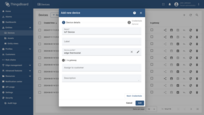
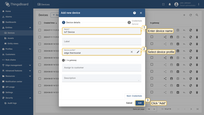
Edge and PE Edge documentation update fix.

diff --git a/_includes/docs/edge/user-guide/alarms.md b/_includes/docs/edge/user-guide/alarms.md
@@ -4,16 +4,15 @@
 
 ## Overview
 
-This manual provides an overview of the alarm notification system functionalities available on the ThingsBoard **Edge** *Platform*. It includes detailed instructions on the fundamental concepts of configuring and utilizing alarms within ThingsBoard **Edge**. Key topics covered are the creation of processing rules, configuration of notifications, and event response mechanisms.
+This manual provides an overview of the alarm notification system functionalities available on the ThingsBoard **Edge**. It includes detailed instructions on the fundamental concepts of configuring and utilizing alarms within ThingsBoard **Edge**. Key topics covered are the creation of processing rules, configuration of notifications, and event response mechanisms.
 
-For more information, please refer to [working with alarms](/docs/pe/user-guide/alarms/#main-concepts) documentation.
+For more information, please refer to the [working with alarms](/docs/pe/user-guide/alarms/#main-concepts) documentation.
 
 ## Prerequisites
 
 - A ThingsBoard **Edge** instance is up and running.
 
 If you have these prerequisites in place, let's go to the next steps.
-
 
 ## Step 1. Create Device
 
@@ -29,21 +28,28 @@ Configuring the device profile allows you to set the device's parameters and beh
 
 ## Step 3. Send Telemetry Message
 
-Replace $THINGSBOARD_HOST_NAME, and $ACCESS_TOKEN with corresponding values.
+In this step, we will send a telemetry message to the device you created earlier, simulating a temperature reading. This message will trigger the alarm based on the alarm rule you configured.
 
+Replace $THINGSBOARD_HOST_NAME, and $ACCESS_TOKEN with corresponding values.
 
 ```bash
 curl -v -X POST http://$THINGSBOARD_HOST_NAME:8080/api/v1/$ACCESS_TOKEN/telemetry --header Content-Type:application/json --data "{temperature:51}"
 ```
 {: .copy-code}
 
-![image](/images/edge/user-guide/alarms/send-telemetry-cli.png)
+This command sends a telemetry message to your ThingsBoard Edge instance with a temperature value of 51, which will trigger the "High Temperature" alarm rule if the threshold condition is met.
+
+![send telemetry cli](/images/edge/user-guide/alarms/send-telemetry-cli.png)
 
 ## Step 4. Confirm Alarm
+
+After sending the telemetry message in the previous step, you need to verify that the alarm has been triggered based on the conditions you configured in the device profile.
 
 {% include images-gallery.html imageCollection="verifyAlarm" showListImageTitles="true" %}
 
 ## Troubleshooting
 
+- The telemetry message was sent correctly (review the response from the curl command).
+- The alarm rule conditions in the device profile match the incoming telemetry data.
 - Ensure that device profiles are correctly associated with devices
 - Verify that alarm conditions match the intended telemetry data.

diff --git a/_includes/docs/pe/edge/user-guide/alarms.md b/_includes/docs/pe/edge/user-guide/alarms.md
@@ -4,7 +4,7 @@
 
 ## Overview
 
-This manual provides an overview of the alarm notification system functionalities available on the ThingsBoard **PE Edge** *Platform*. It includes detailed instructions on the fundamental concepts of configuring and utilizing alarms within ThingsBoard **PE Edge**. Key topics covered are the creation of processing rules, configuration of notifications, and event response mechanisms.
+This manual provides an overview of the alarm notification system functionalities available on the ThingsBoard **PE Edge**. It includes detailed instructions on the fundamental concepts of configuring and utilizing alarms within ThingsBoard **PE Edge**. Key topics covered are the creation of processing rules, configuration of notifications, and event response mechanisms.
 
 For more information, please refer to [working with alarms](/docs/pe/user-guide/alarms/#main-concepts) documentation.
 
@@ -13,7 +13,6 @@ For more information, please refer to [working with alarms](/docs/pe/user-guide/
 - A ThingsBoard **PE Edge** instance is up and running.
 
 If you have these prerequisites in place, let's go to the next steps.
-
 
 ## Step 1. Create Device
 
@@ -29,21 +28,28 @@ Configuring the device profile allows you to set the device's parameters and beh
 
 ## Step 3. Send Telemetry Message
 
-Replace $THINGSBOARD_HOST_NAME, and $ACCESS_TOKEN with corresponding values.
+In this step, we will send a telemetry message to the device you created earlier, simulating a temperature reading. This message will trigger the alarm based on the alarm rule you configured.
 
+Replace $THINGSBOARD_HOST_NAME, and $ACCESS_TOKEN with corresponding values.
 
 ```bash
 curl -v -X POST http://$THINGSBOARD_HOST_NAME:8080/api/v1/$ACCESS_TOKEN/telemetry --header Content-Type:application/json --data "{temperature:51}"
 ```
 {: .copy-code}
 
-![image](/images/pe/edge/user-guide/alarms/send-telemetry-cli.png)
+This command sends a telemetry message to your ThingsBoard PE Edge instance with a temperature value of 51, which will trigger the "High Temperature" alarm rule if the threshold condition is met.
+
+![send telemetry cli](/images/pe/edge/user-guide/alarms/send-telemetry-cli.png)
 
 ## Step 4. Confirm Alarm
+
+After sending the telemetry message in the previous step, you need to verify that the alarm has been triggered based on the conditions you configured in the device profile.
 
 {% include images-gallery.html imageCollection="verifyAlarm" showListImageTitles="true" %}
 
 ## Troubleshooting
 
+- The telemetry message was sent correctly (review the response from the curl command).
+- The alarm rule conditions in the device profile match the incoming telemetry data.
 - Ensure that device profiles are correctly associated with devices
 - Verify that alarm conditions match the intended telemetry data.

diff --git a/docs/edge/user-guide/alarms.md b/docs/edge/user-guide/alarms.md
@@ -8,7 +8,7 @@ description: Alarms
 createDeviceProfile:
     0:
       image: /images/edge/user-guide/alarms/create-device-profile-1.png
-      title: 'Log in to ThingsBoard <b>PE</b> instance. Open <b>"Device profiles"</b> menu page.'
+      title: 'Log in to ThingsBoard <b>Edge</b> instance. Open <b>"Device profiles"</b> menu page.'
       
     1:
       image: /images/edge/user-guide/alarms/create-device-profile-2.png
@@ -48,7 +48,7 @@ createDeviceProfile:
       
     10:
       image: /images/edge/user-guide/alarms/create-device-profile-11.png
-      title: 'Click <b>"Add" button"</b>.'
+      title: 'Click <b>"Add" button</b>.'
     
     11:
       image: /images/edge/user-guide/alarms/create-device-profile-12.png
@@ -58,7 +58,7 @@ createDeviceProfile:
 createDevice:
     0:
       image: /images/edge/user-guide/alarms/create-device-1.png
-      title: 'Log in to ThingsBoard <b>PE</b> instance. Open <b>"Devices"</b> menu page. Click <b>"+"</b>, then click <b>Add new device</b>.'
+      title: 'Log in to ThingsBoard <b>Edge</b> instance. Open <b>"Devices"</b> menu page. Click <b>"+"</b>, then click <b>"Add new device"</b>.'
     1:
       image: /images/edge/user-guide/alarms/create-device-2.png
       title: '1. Enter device name (e.g., IoT Device). 2. Select device profile (e.g., edge thermostat). 3. Click <b>"Add"</b> button.'

diff --git a/docs/pe/edge/user-guide/alarms.md b/docs/pe/edge/user-guide/alarms.md
@@ -58,7 +58,7 @@ createDeviceProfile:
 createDevice:
     0:
       image: /images/pe/edge/user-guide/alarms/create-device-1.png
-      title: 'Log in to ThingsBoard <b>PE</b> instance. Open <b>"Devices"</b> menu page. Click <b>"+"</b>, then click <b>Add new device</b>.'
+      title: 'Log in to ThingsBoard <b>PE</b> instance. Open <b>"Devices"</b> menu page. Click <b>"+"</b>, then click <b>"Add new device"</b>.'
     1:
       image: /images/pe/edge/user-guide/alarms/create-device-2.png
       title: '1. Enter device name (e.g., IoT Device). 2. Select device profile (e.g., edge thermostat). 3. Click <b>"Add"</b> button.'
